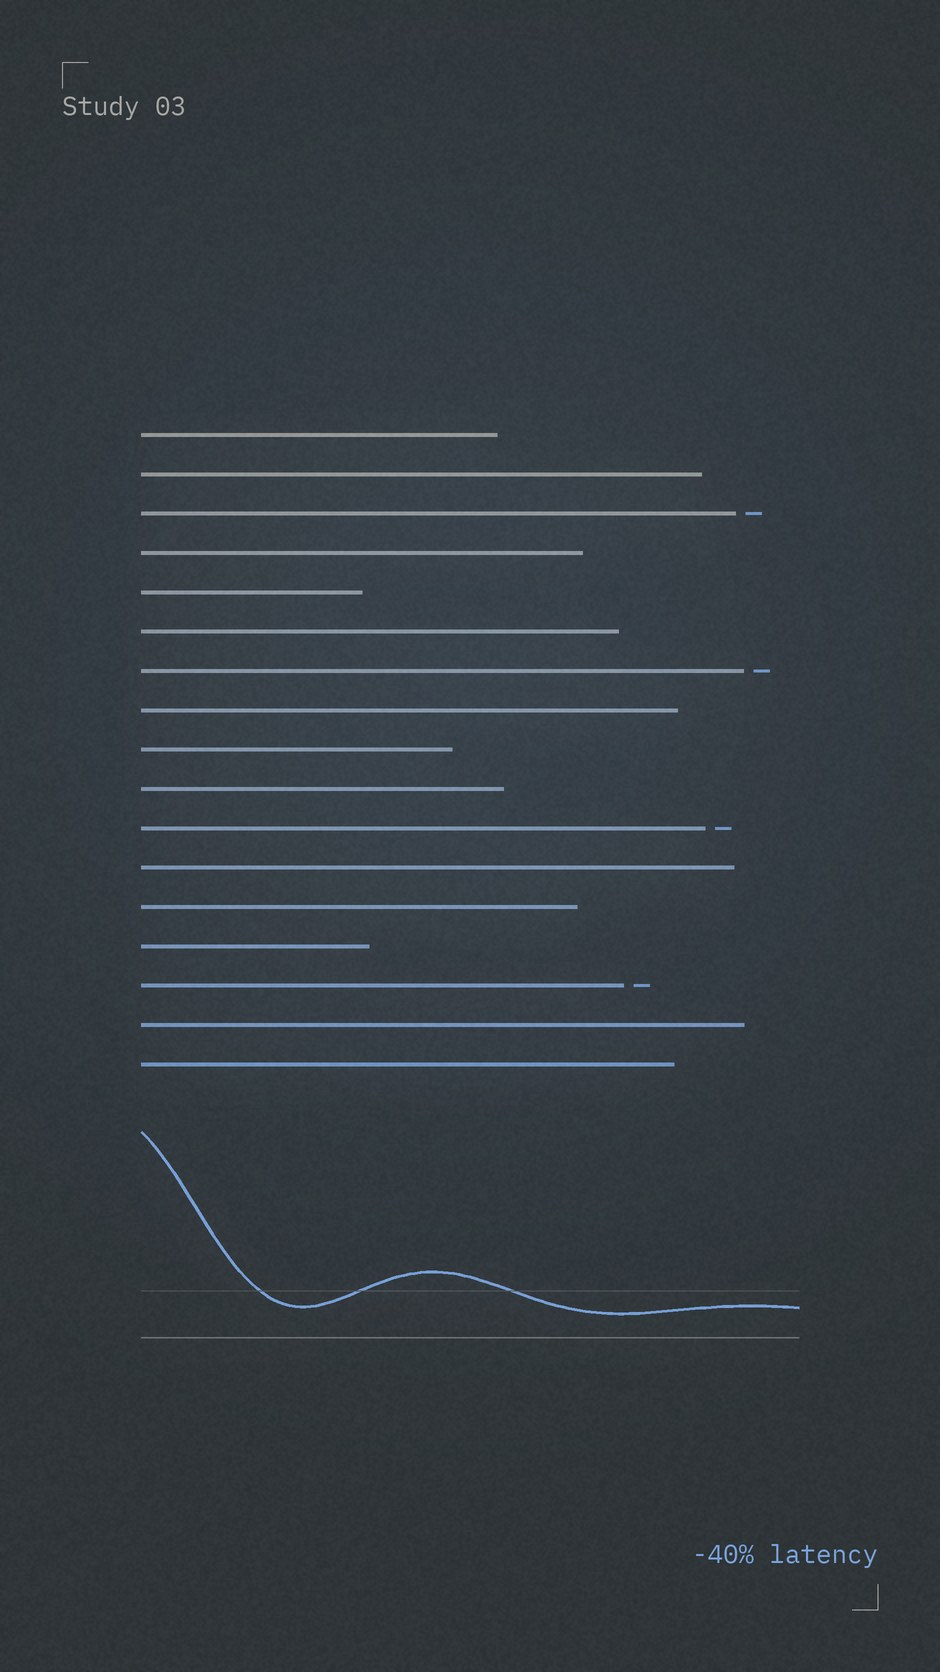
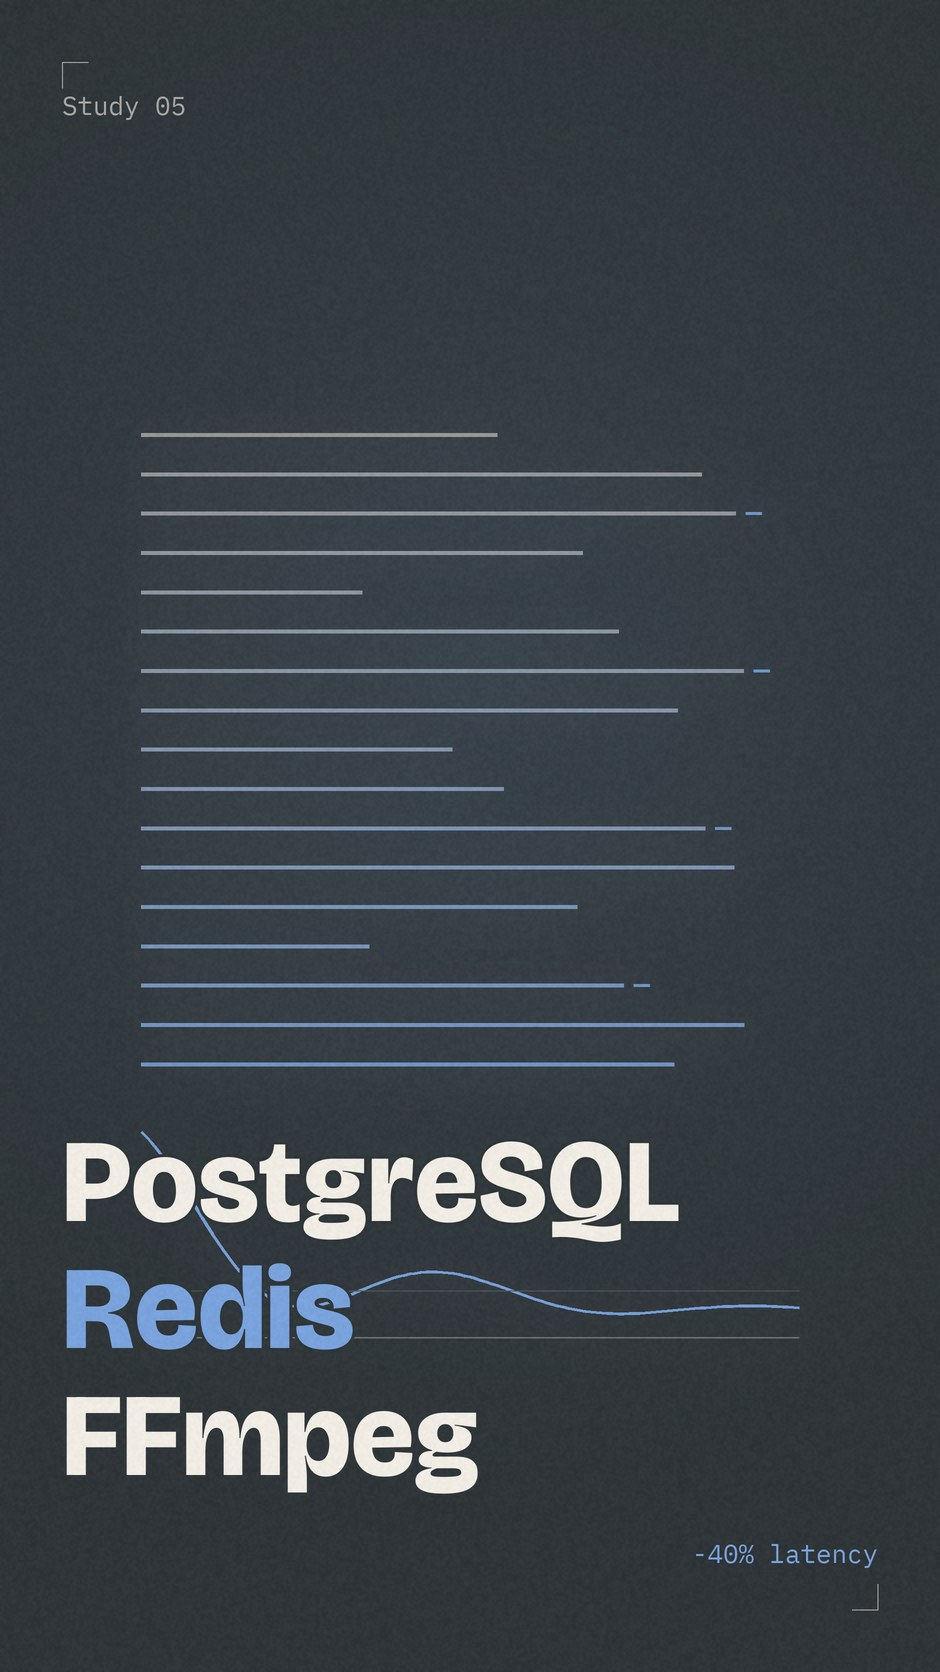
feat: draw big service names on work card artwork
Reorder WORK_PLATES to current card order and stamp each plate with its
stack (Node.js/FFmpeg/MediaMTX, MongoDB/Mongoose/React, ...) so the card
fronts read as systems, not empty diagrams. Adds --work-only flag.

Changed region(s): [[0.0617, 0.6842, 0.7404, 0.9019]]

diff --git a/tools/generate_art.py b/tools/generate_art.py
@@ -42,6 +42,17 @@ def mono(size):
     return font("IBMPlexMono-400.ttf", size)
 
 
+def heavy(size):
+    """Display face for the big service names. Bricolage is a variable font;
+    fall back to Geist when this FreeType build cannot set the weight axis."""
+    try:
+        f = font("Bricolage-200 800.ttf", size)
+        f.set_variation_by_axes([700])
+        return f
+    except Exception:
+        return font("Geist-600.ttf", size)
+
+
 def mix(a, b, t):
     return tuple(round(a[i] + (b[i] - a[i]) * t) for i in range(3))
 
@@ -98,7 +109,7 @@ def shadow(layer, blur, offset, opacity=0.18):
     return sh.transform(layer.size, Image.AFFINE, (1, 0, -offset[0], 0, 1, -offset[1]))
 
 
-def plate(size, seed, accent, motif, caption=None, index=None, ground="paper"):
+def plate(size, seed, accent, motif, caption=None, index=None, ground="paper", services=None):
     """Compose one artwork plate at SS scale, then downsample."""
     theme(ground, accent)
     dark = ground == "dark"
@@ -124,6 +135,26 @@ def plate(size, seed, accent, motif, caption=None, index=None, ground="paper"):
         f = mono(26 * SS)
         tw = marks.textlength(caption, font=f)
         marks.text((w - m - tw, h - m - 74 * SS), caption, font=f, fill=accent + (235,))
+    if services:
+        # The stack of service names is the card's loudest element; each line
+        # autofits the column and a paper-coloured halo keeps it legible over
+        # whatever the motif left in the lower third.
+        maxw = w - 2 * m
+        lines = []
+        for name in services:
+            size_px = 118 * SS
+            f = heavy(size_px)
+            tw = marks.textlength(name, font=f)
+            if tw > maxw:
+                size_px = max(40 * SS, int(size_px * maxw / tw))
+                f = heavy(size_px)
+            lines.append((name, f, size_px))
+        y = h - m - 118 * SS - sum(int(sz * 1.08) for _, _, sz in lines)
+        for i, (name, f, sz) in enumerate(lines):
+            fill = accent + (244,) if i == 1 else INK + (240,)
+            marks.text((m, y), name, font=f, fill=fill,
+                       stroke_width=3 * SS, stroke_fill=PAPER + (170,))
+            y += int(sz * 1.08)
 
     out = base.convert("RGB").resize(size, Image.LANCZOS)
     out = grain(out, 5, seed)
@@ -601,15 +632,24 @@ def build_guide(size, seed, accent):
 # ---------------------------------------------------------------------- build
 
 WORK_PLATES = [
-    # motif, accent, caption, index, ground — grounds alternate so the carousel has rhythm
-    (m_camera_grid, (214, 122, 74), "500+ streams", "Study 01", "dark"),
-    (m_topology, (73, 98, 107), "multi-site", "Study 02", "paper"),
-    (m_transport, (122, 164, 224), "-40% latency", "Study 03", "dark"),
-    (m_overlays, (146, 112, 61), "inference", "Study 04", "paper"),
-    (m_pipeline, (226, 126, 96), "redis / bullmq", "Study 05", "dark"),
-    (m_stack, (100, 104, 86), "rest api", "Study 06", "paper"),
-    (m_schedule, (123, 88, 122), "recurrence", "Study 07", "paper"),
-    (m_badge, (238, 128, 60), "aws certified", "Study 08", "dark"),
+    # motif, accent, caption, index, ground, services — ordered to match the
+    # cards in assets/js/projects.js; grounds alternate so the carousel has rhythm
+    (m_camera_grid, (214, 122, 74), "1,000+ cameras", "Study 01", "dark",
+     ("Node.js", "FFmpeg", "MediaMTX")),
+    (m_overlays, (146, 112, 61), "inference", "Study 02", "paper",
+     ("WebRTC", "Redis", "BullMQ")),
+    (m_schedule, (123, 88, 122), "10,000 doctors", "Study 03", "paper",
+     ("Express", "PostgreSQL", "Keycloak")),
+    (m_topology, (73, 98, 107), "book circulation", "Study 04", "dark",
+     ("MongoDB", "Mongoose", "React")),
+    (m_transport, (122, 164, 224), "-40% latency", "Study 05", "dark",
+     ("PostgreSQL", "Redis", "FFmpeg")),
+    (m_pipeline, (226, 126, 96), "audit trails", "Study 06", "paper",
+     ("Keycloak", "RBAC", "SSO + 2FA")),
+    (m_stack, (100, 104, 86), "consoles", "Study 07", "paper",
+     ("React", "Redux", "Next.js")),
+    (m_badge, (238, 128, 60), "certified", "Study 08", "dark",
+     ("AWS", "Oracle", "Docker")),
 ]
 
 PRACTICE_PLATES = [
@@ -627,13 +667,18 @@ PRACTICE_PLATES = [
 
 
 def main():
+    work_only = "--work-only" in os.sys.argv
+
     for sub in ("work", "practice", "portrait", "identity", "guide"):
         os.makedirs(os.path.join(OUT, sub), exist_ok=True)
 
-    for i, (motif, accent, caption, index, ground) in enumerate(WORK_PLATES, 1):
-        p = plate(WORK, 1000 + i, accent, motif, caption, index, ground)
+    for i, (motif, accent, caption, index, ground, services) in enumerate(WORK_PLATES, 1):
+        p = plate(WORK, 1000 + i, accent, motif, caption, index, ground, services)
         p.save(os.path.join(OUT, "work", f"{i:02d}.jpg"), quality=88, optimize=True, progressive=True)
         print("work", i)
+
+    if work_only:
+        return
 
     for i, (motif, accent, caption, ground) in enumerate(PRACTICE_PLATES, 1):
         p = plate(PRACTICE, 2000 + i, accent, motif, caption, f"{i:02d}", ground)
